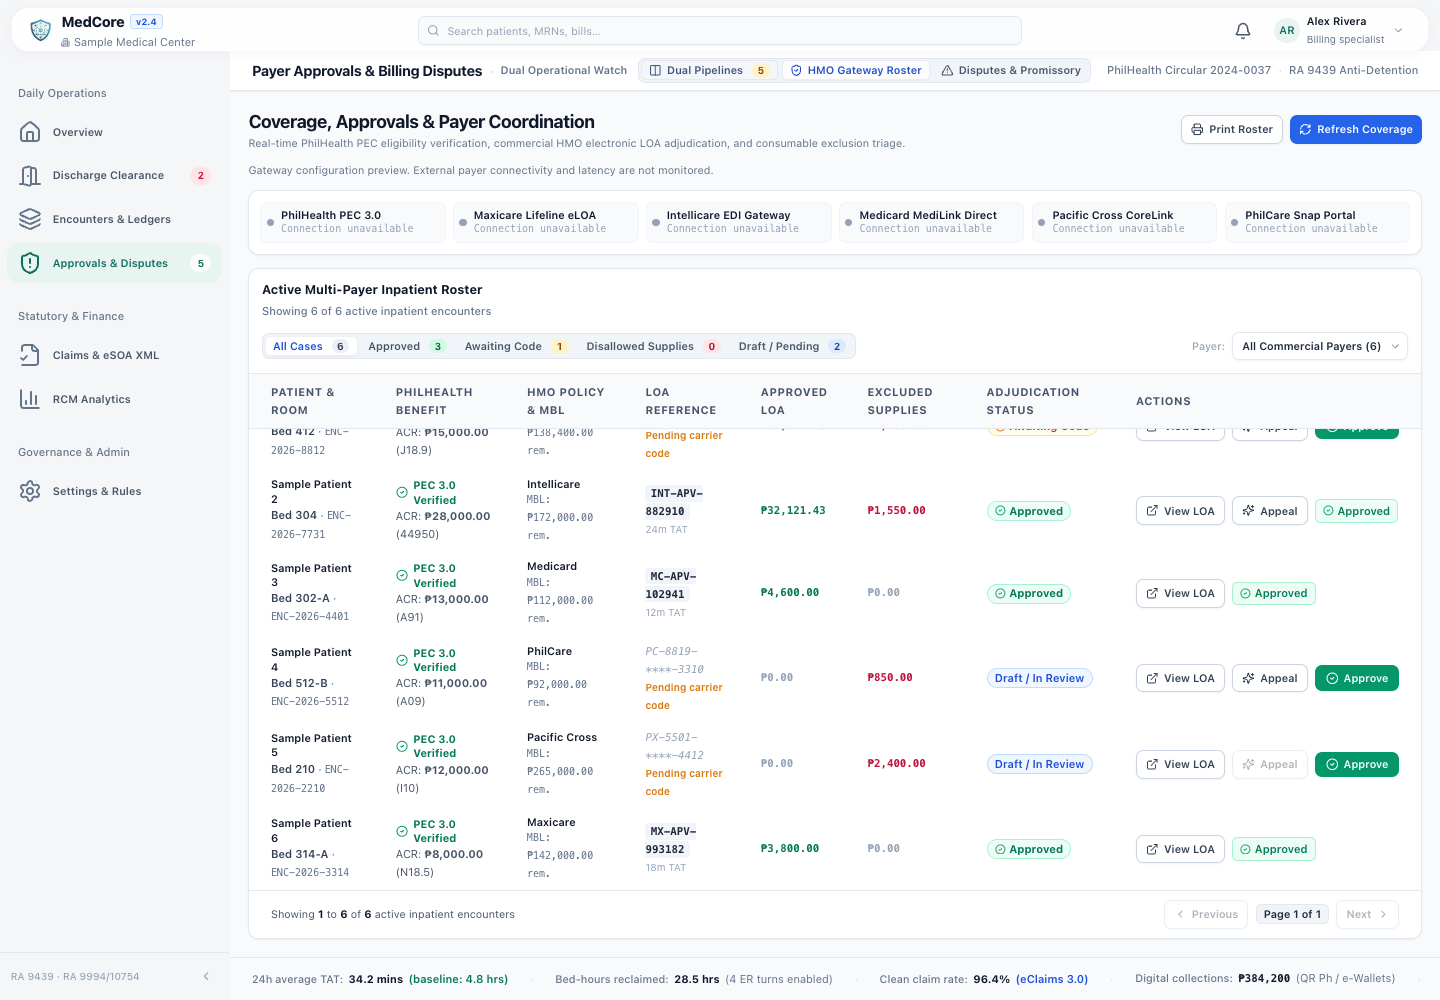
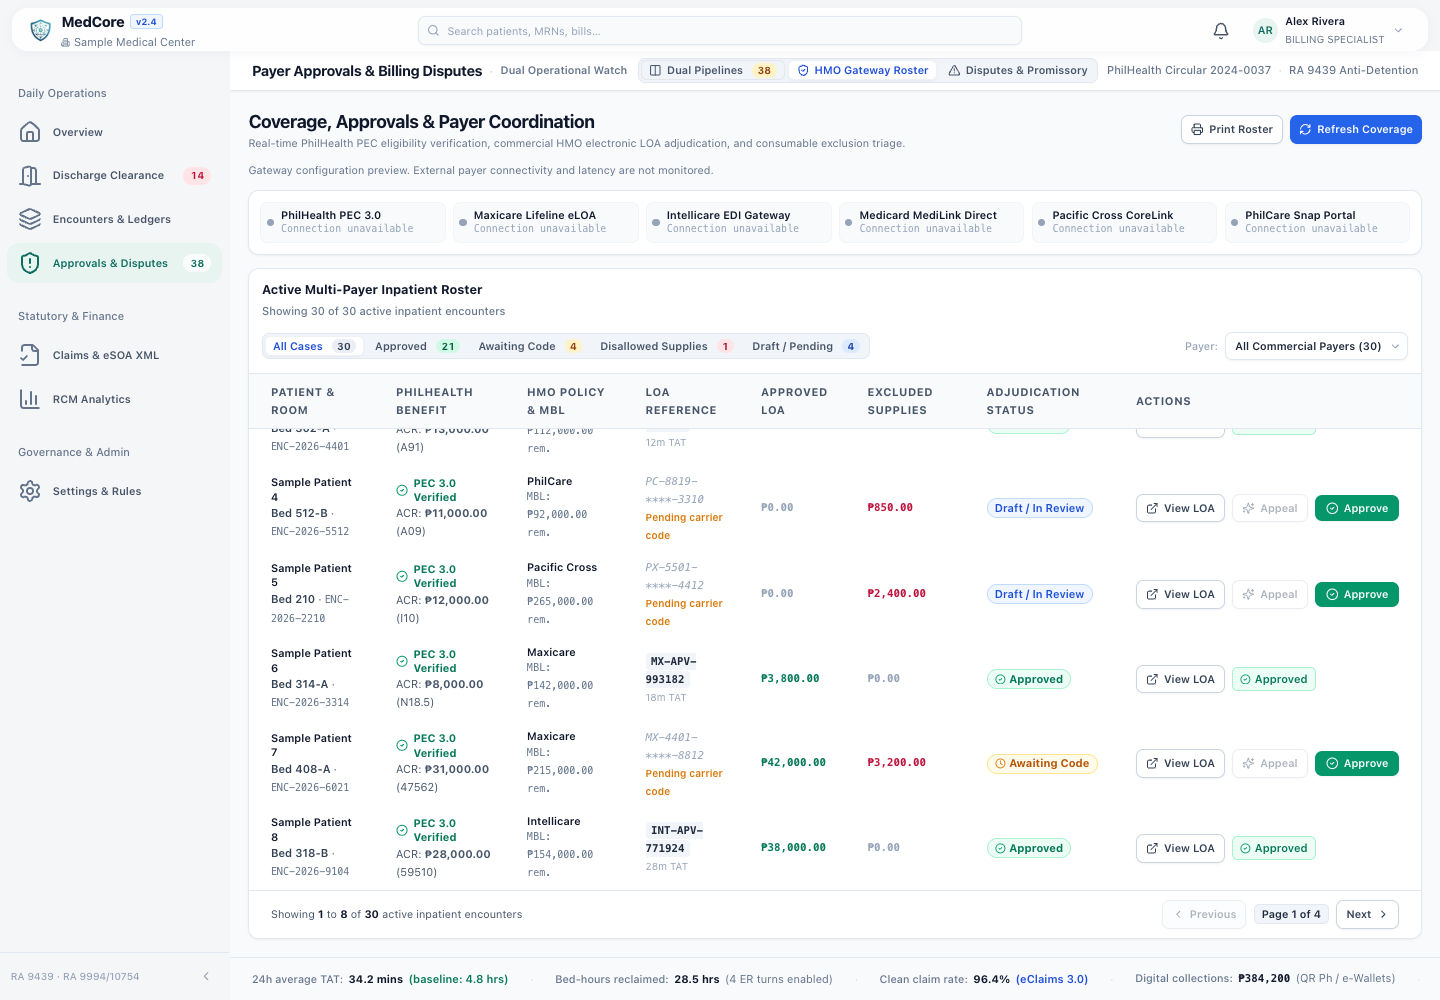
fix(ui): adjust approvals and disputes pagination

diff --git a/apps/dashboard/src/features/command-center/components/DualOperationalPipelines.tsx b/apps/dashboard/src/features/command-center/components/DualOperationalPipelines.tsx
@@ -26,11 +26,11 @@ export const DualOperationalPipelines: React.FC<DualOperationalPipelinesProps> =
   // Search & Pagination States
   const payerSearch = searchQuery;
   const [payerPage, setPayerPage] = useState(1);
-  const payerPageSize = 9;
+  const payerPageSize = 10;
 
   const exceptionsSearch = searchQuery;
   const [exceptionsPage, setExceptionsPage] = useState(1);
-  const exceptionsPageSize = 7;
+  const exceptionsPageSize = 8;
 
   // Selected row state for Unresolved Exceptions to dock contextual actions
   const [selectedExceptionKey, setSelectedExceptionKey] = useState<string | null>(null);

diff --git a/apps/dashboard/src/pages/DisputesExceptionsPage.tsx b/apps/dashboard/src/pages/DisputesExceptionsPage.tsx
@@ -23,7 +23,7 @@ export const DisputesExceptionsPage: React.FC = () => {
     itemDescription?: string;
     amount?: number;
   }>({ isOpen: false, encounter: null });
-  const pageSize = 11;
+  const pageSize = 7;
   useEffect(()=>{ setItemsPage(1); setNotesPage(1); }, [searchQuery]);
 
   // Collect all contested items (excluding waived items)

diff --git a/apps/dashboard/src/pages/CoverageApprovalsPage.tsx b/apps/dashboard/src/pages/CoverageApprovalsPage.tsx
@@ -18,7 +18,7 @@ export const CoverageApprovalsPage: React.FC = () => {
     itemDescription?: string;
     amount?: number;
   }>({ isOpen: false, encounter: null });
-  const pageSize = 12;
+  const pageSize = 8;
   useEffect(()=>{ setCurrentPage(1); }, [searchQuery]);
   const tableContainerRef = useRef<HTMLDivElement>(null);
 

diff --git a/.brain/PROJECT_CONTEXT.md b/.brain/PROJECT_CONTEXT.md
@@ -2450,3 +2450,9 @@ An exhaustive end-to-end performance and reliability audit and refactor was comp
 [VALIDATION] 54 isolated route/provider regression groups, 13 cache groups and 7 real PostgreSQL groups pass: repeated requests to every feature spend zero extra provider calls; eight concurrent requests across independent pools share one generation; refresh, expiry, ownership, language/history/source invalidation, corrupt outputs, failure sharing and lease fencing are covered. Server and changed script/test strict types, dashboard build, Worker dry run, seven Claims/eSOA DOM groups, shared financial/auth/workflow/notification tests and diff checks pass. Independent review's cleanup and fast-failure races were fixed and re-reviewed. Hosted Cora verification observed GENERATED/HIT/HIT with identical valid English answers and authoritative balance; only timing/cache metadata was saved, no clinical financial data mutated. Evidence: [AI cache verification](../docs/validation/ai-cache/README.md).
 
 [DEPLOYMENT] Additive cache table/index applied to the configured database after verifying it matches the existing Worker Hyperdrive origin; Hyperdrive SQL query caching remains disabled. Backend deployed as version `2ae8c460-37f9-49bd-8a9e-623dd23af278`. Mobile receives caching through the backend without a new client build. Dashboard source publication/rebuild is required for the explicit appeal Regenerate flag. Source remains uncommitted/unpushed by the agent; unrelated CODEX_SMS_IMPLEMENTATION_PROMPT.md is untouched. Existing root advisories remain 17 (6 moderate, 9 high, 2 critical); no dependency changes.
+
+## Approvals and disputes page sizes — October 12, 2026
+
+[DECISION] Dual Pipelines now shows 10 payer authorizations and 8 unresolved exceptions per page (one more in each list), filling the reported gap at 1920×960 without clipping a row when the selected-item action dock wraps. HMO Gateway Roster shows 8 rows instead of 12; both contested items and RA 9439 promissory notes show 7 instead of 11. Existing filtering, totals, page clamping, Previous/Next and internal scrolling remain intact.
+
+[VALIDATION] Dashboard production build/typecheck and diff checks pass. Actual browser views were verified with 30 synthetic encounters/disputes/notes at 1920×960, 1440×1000 and 1440×800: page sizes, forward/back navigation and visible pagination controls pass, with zero page errors or application mutations. Short screens retain internal scrolling. The three affected root dashboard views and roster scroll screenshot were refreshed at the existing 1440×1000 dimensions. Source remains uncommitted/unpushed; no backend changes or deployment are required.
